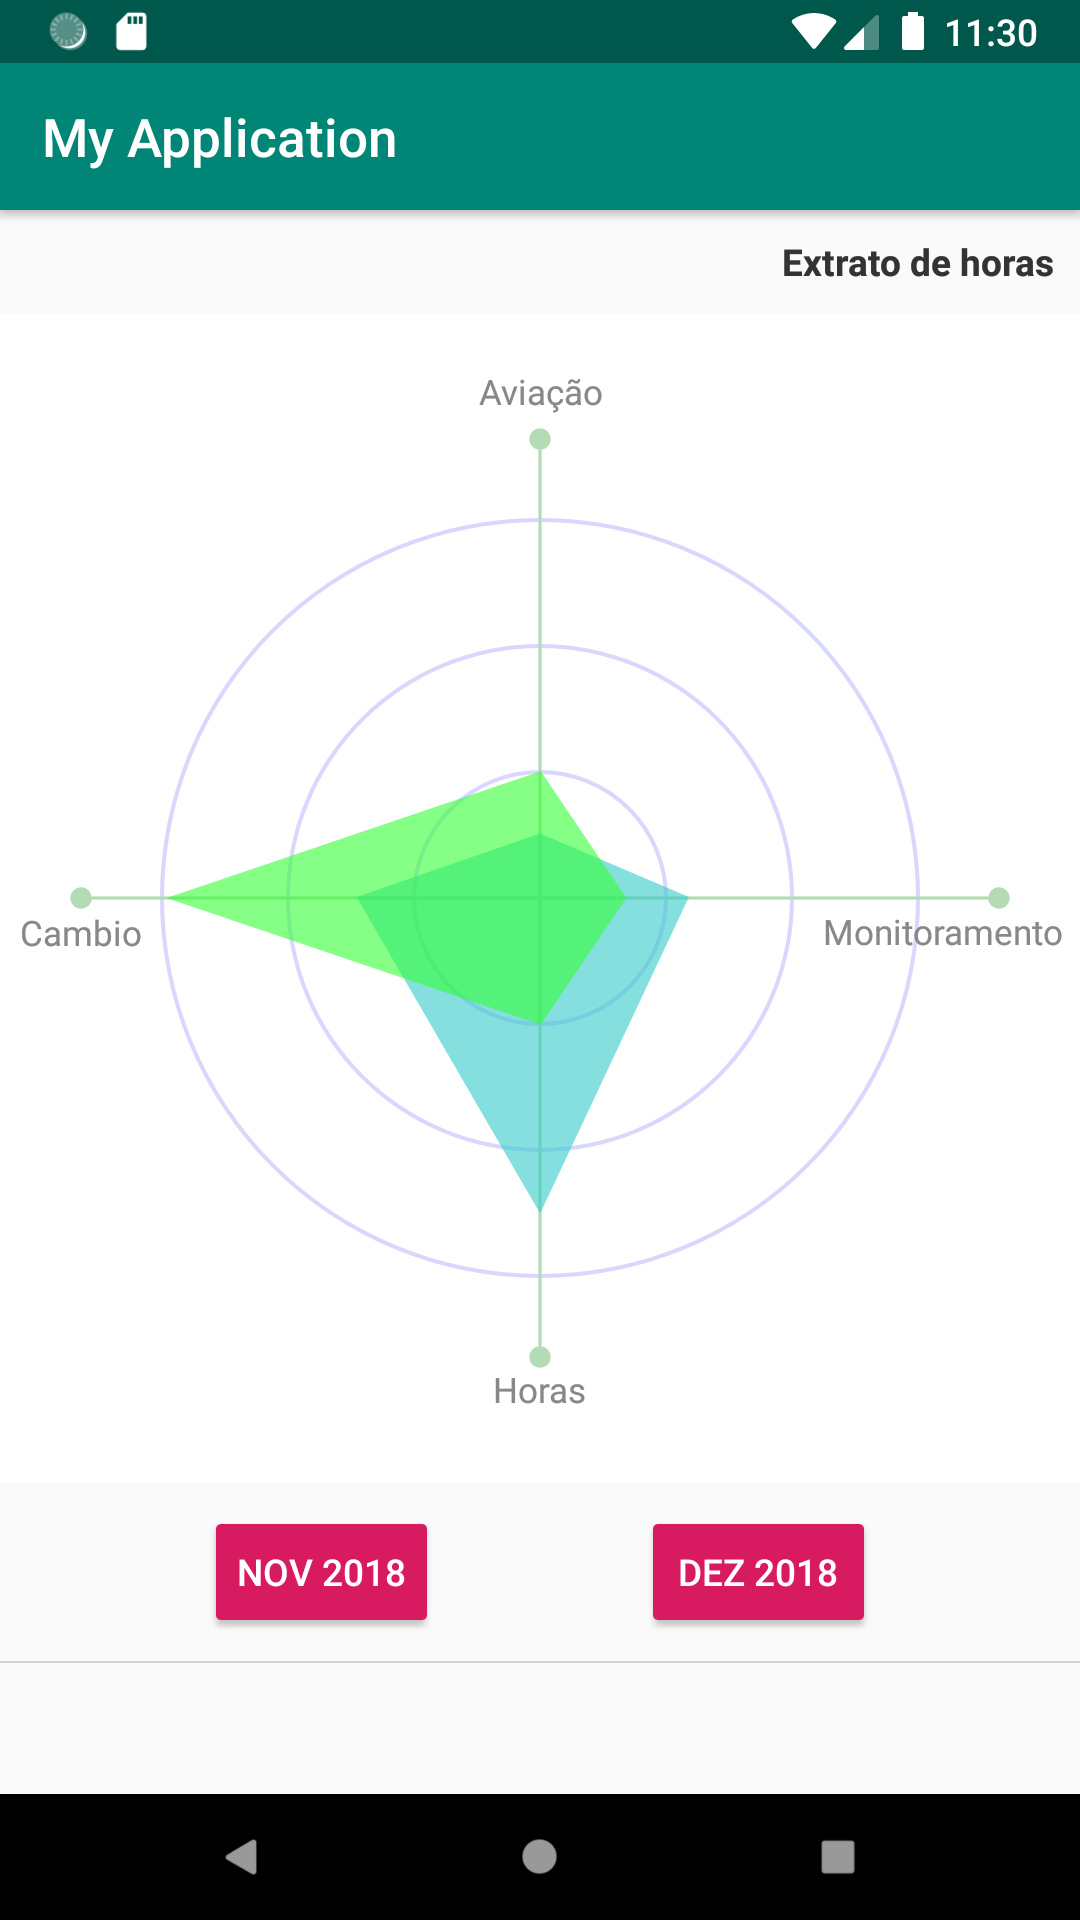
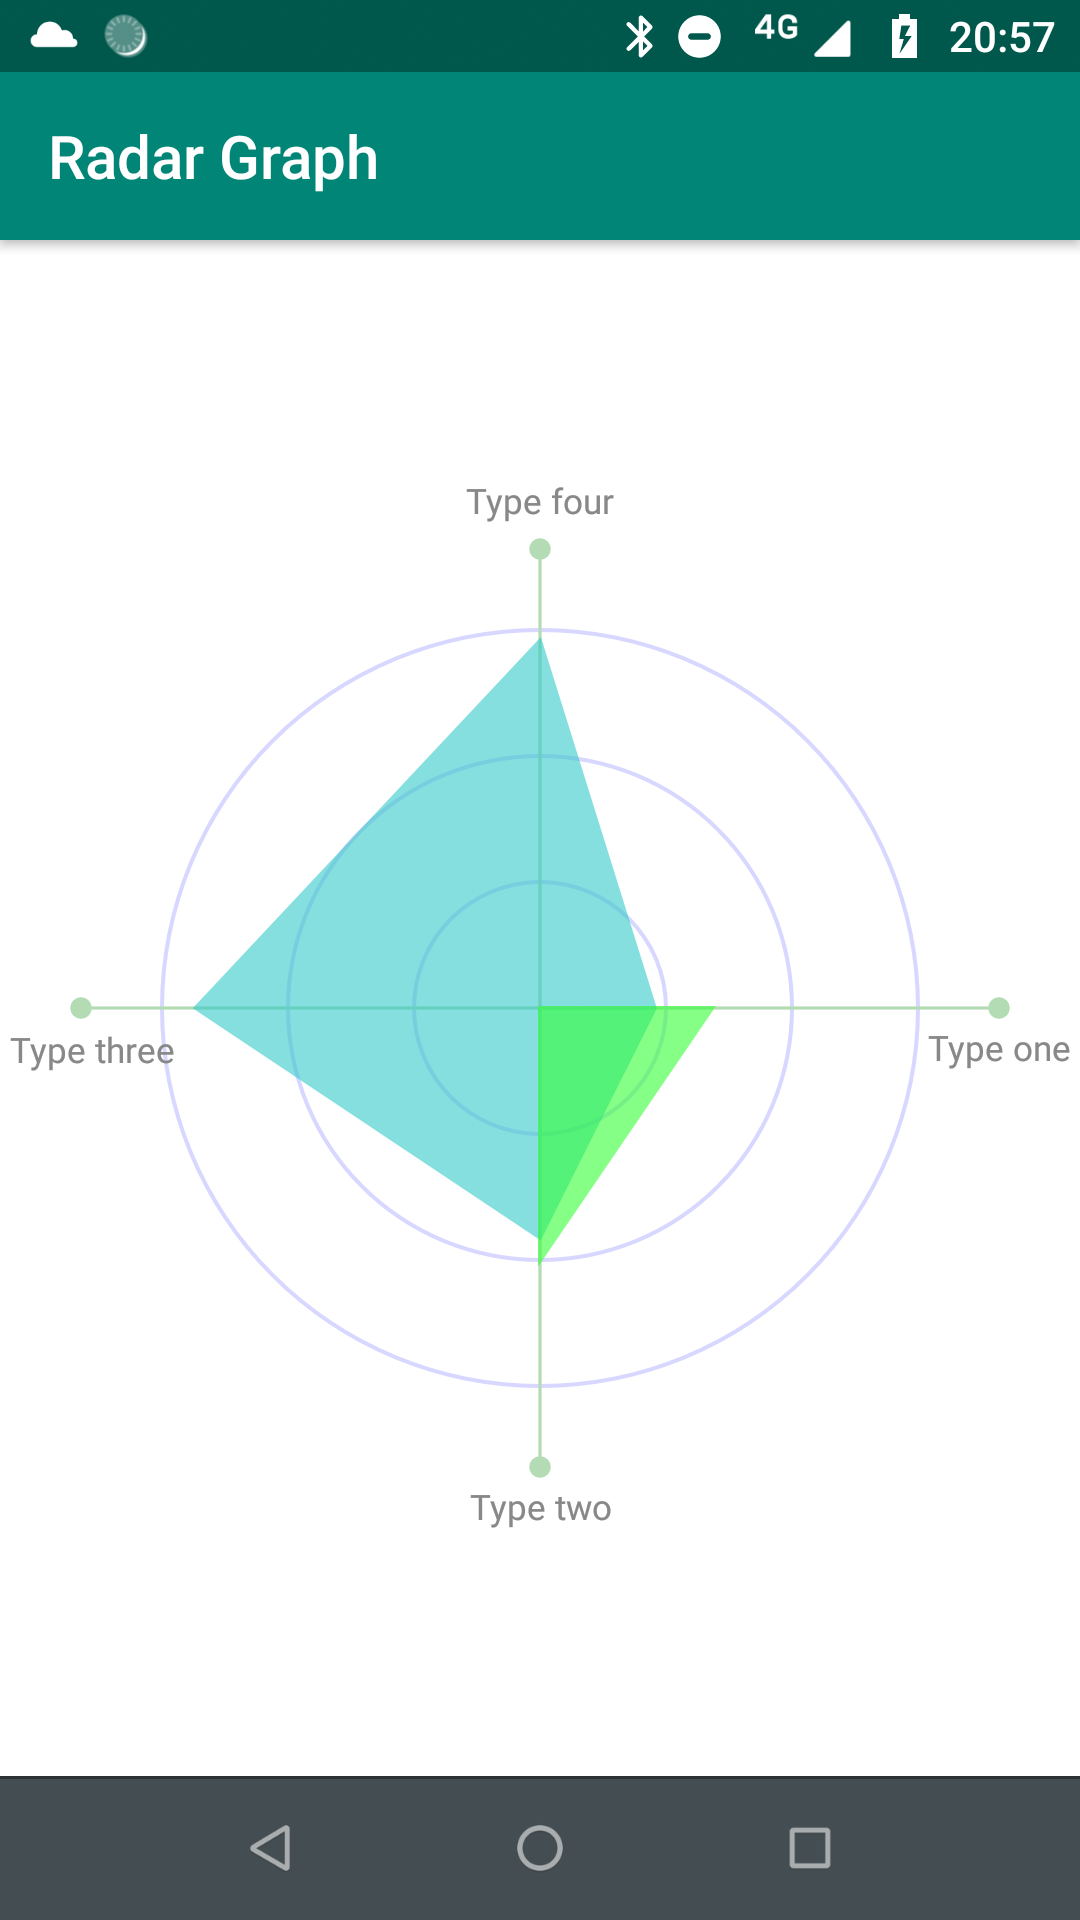
update printscreen; update readme file; update app name

diff --git a/app/src/main/java/com/epolly/radargraph/RadarGraphView.kt b/app/src/main/java/com/epolly/radargraph/RadarGraphView.kt
@@ -11,8 +11,8 @@ import com.epolly.radargraph.model.DummyData
 class RadarGraphView(context: Context, attrs: AttributeSet?) : View(context, attrs) {
 
     //Data model containing the data used to populate the graph(user input)
-    var dataModel = DataList<String>(emptyList())
-    //var dataModel = DummyData.createDataList()
+    //var dataModel = DataList<String>(emptyList())
+    var dataModel = DummyData.createDataList()
 
     // Center of the graph(minGraphSize / 2)
     private var center = PointF()

diff --git a/README.md b/README.md
@@ -5,7 +5,9 @@ TODO list:
 * Convert all dynamic fields to view arguments
 * Default color pallet for at least 5 axis(axis color, text color, axis circle color, background circle color
 * Display the data mode label name
-* Legend
+* Display the data mode legends
+* Separate the component from the demo app
+* Release it as a library
 
 ### Demo
 <img src="https://github.com/maiconhellmann/radar-graph/blob/master/doc/ss.png" width="50%">
